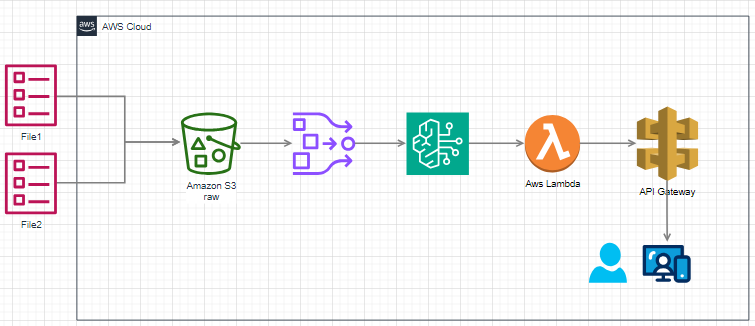
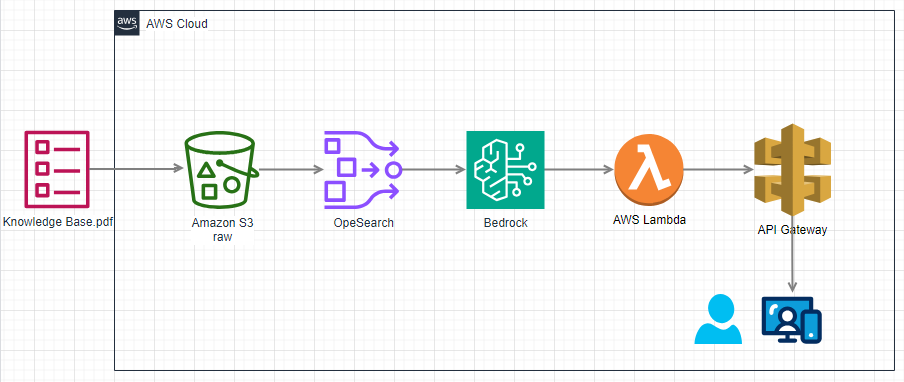
Atualização do README

Changed region(s): [[0.0, 0.184, 0.9444, 0.9202], [0.0914, 0.0, 1.0, 1.0]]

diff --git a/README.md b/README.md
@@ -1,9 +1,68 @@
 # aws-bedrock-stream-chat
-aws-bedrock-stream-chat
+
+# Arquitetura de IA Generativa com AWS Bedrock
+Este repositório apresenta uma arquitetura de exemplo para o processamento de uma base de conhecimento em formato PDF utilizando serviços da AWS Bedrock. O diagrama abaixo ilustra o fluxo de dados, desde a ingestão do arquivo PDF até a disponibilização dos resultados por meio de uma API.
+
+
+
+## Descrição da Arquitetura
 
 ![alt text](image.png)
+### Knowledge Base.pdf:
 
-## Comandos
+Representa um arquivo PDF contendo uma base de conhecimento que será processada.
+Este documento é o ponto de partida para o pipeline de processamento.
+
+### Amazon S3 (Bucket Raw):
+
+O arquivo PDF é armazenado em um bucket S3 para armazenamento inicial.
+Este bucket serve como o repositório central para o arquivo bruto, permitindo que ele seja acessado por outros serviços AWS.
+
+### OpenSearch:
+
+Um serviço de busca que pode estar relacionado ao AWS OpenSearch é utilizado para indexar e buscar informações dentro do PDF.
+Este componente processa o conteúdo do PDF para torná-lo pesquisável e estruturado para consultas.
+
+### Bedrock:
+
+O serviço AWS Bedrock é utilizado para realizar inferências ou análises avançadas no conteúdo extraído.
+Bedrock pode usar modelos de inteligência artificial para interpretar o conteúdo e fornecer insights ou classificações com base no texto.
+
+### AWS Lambda:
+
+Uma função Lambda é usada para orquestrar a integração entre os serviços, gerenciar o fluxo de dados e processar os resultados obtidos do Bedrock.
+Lambda também pode manipular os dados processados para que sejam adequados para apresentação via API.
+
+### API Gateway:
+
+O API Gateway expõe uma API que permite que sistemas externos ou usuários consultem o conteúdo processado ou os resultados de análises realizadas no PDF.
+Os usuários podem realizar buscas ou acessar dados específicos do documento através de chamadas HTTP.
+
+### Usuários Finais:
+
+Representa os usuários ou sistemas que interagem com a API para acessar o conteúdo processado da base de conhecimento.
+Eles podem utilizar uma interface de usuário ou outro sistema automatizado para enviar consultas e visualizar os resultados.
+
+## Como Usar
+Upload de PDF:
+
+Carregue o arquivo PDF da base de conhecimento no bucket S3 designado.
+Processamento Automatizado:
+
+O pipeline automatizado processará o PDF, tornando-o pesquisável e analisável.
+Consultas via API:
+
+Utilize o endpoint fornecido pelo API Gateway para enviar consultas e acessar os resultados processados.
+Requisitos
+AWS S3
+AWS Lambda
+AWS Bedrock
+OpenSearch
+API Gateway
+AWS IAM para controle de acesso e permissões
+
+
+## Informações e links
 terraform apply -auto-approve -var-file="./_variables/prd.tfvars"
 terraform plan -var-file="./_variables/prd.tfvars"
 terraform destroy -auto-approve -var-file="./_variables/prd.tfvars"
